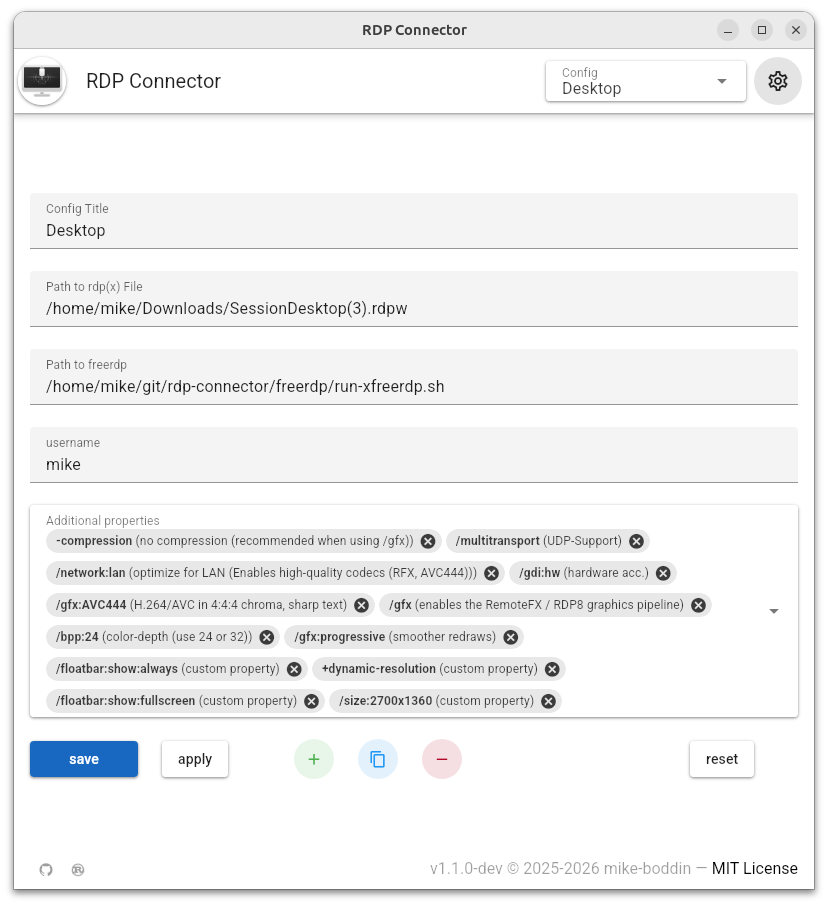
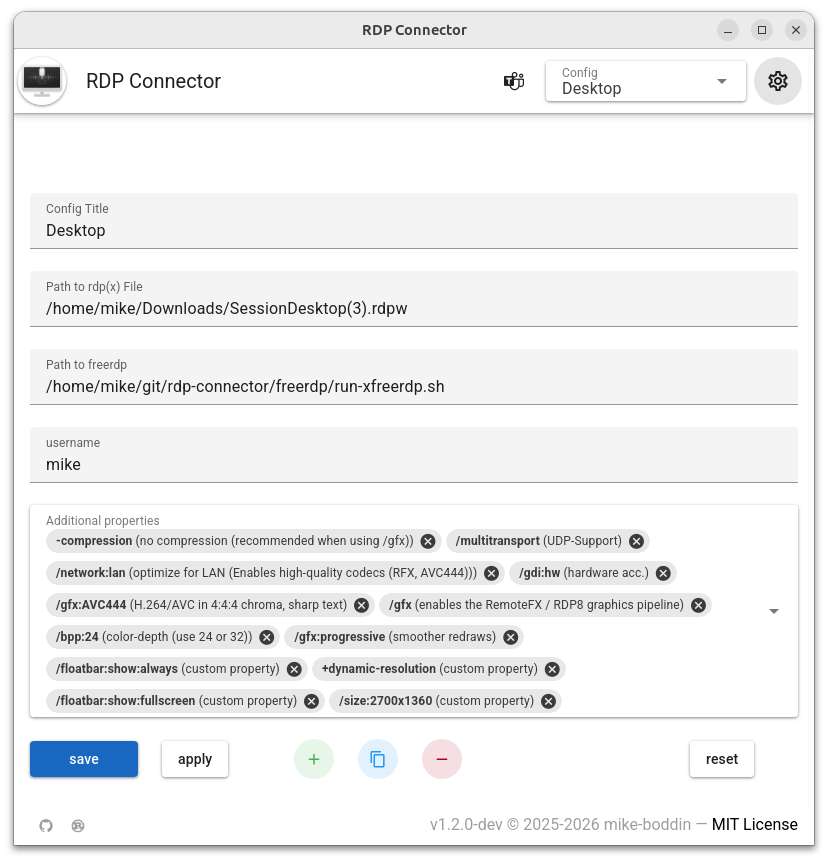
docs: update documentation

diff --git a/AGENTS.md b/AGENTS.md
@@ -14,8 +14,8 @@ Welcome, fellow AI agent! This guide provides a quick overview of the `rdp-conne
 
 ## Tech Stack
 
-- **Frontend:** [Vue.js 3](https://vuejs.org/) with [Vuetify 3](https://vuetifyjs.com/) (using Vite).
-- **Backend:** [Tauri](https://tauri.app/) (Rust).
+- **Frontend:** [Vue.js 3](https://vuejs.org/) with [Vuetify 4](https://vuetifyjs.com/) (using Vite).
+- **Backend:** [Tauri 2](https://tauri.app/) (Rust).
 - **Styling:** SASS/SCSS.
 - **Testing:** [Vitest](https://vitest.dev/).
 - **Documentation:** [VitePress](https://vitepress.dev/).
@@ -26,9 +26,10 @@ Welcome, fellow AI agent! This guide provides a quick overview of the `rdp-conne
 - `src/`: Vue frontend source code.
   - `components/`: Vue components.
   - `pages/`: Application pages.
-  - `store/`: Pinia state management (for RDP settings).
+  - `stores/`: Pinia state management (for RDP settings).
 - `src-tauri/`: Rust backend source code.
-  - `src/main.rs`: Tauri entry point and commands.
+  - `src/main.rs`: Tauri entry point.
+  - `src/lib.rs`: Tauri setup and commands.
   - `tauri.conf.json`: Tauri configuration.
 - `docs/`: VitePress documentation.
   - `index.md`: Main documentation page (copied from `README.md`).
@@ -49,7 +50,8 @@ Welcome, fellow AI agent! This guide provides a quick overview of the `rdp-conne
 - `npm run tauri:dev`: Run the app in development mode.
 - `npm run tauri:build`: Build the production application.
 - `npm run lint`: Run ESLint.
-- `npx vitest run`: Run tests with Vitest.
+- `npm run test`: Run frontend tests with Vitest.
+- `npm run test:rust`: Run backend tests with Cargo.
 - `npm run docs:dev`: Start VitePress dev server.
 - `npm run docs:build`: Build static documentation.
 - `npm run freerdp:build`: Run the `freerdp` build script (requires Docker).
@@ -72,11 +74,12 @@ Key backend commands in `src-tauri/src/lib.rs` and `src-tauri/src/advanced_comma
 
 ## Guidelines for AI Agents
 
-1. **Frontend Consistency:** The frontend uses Vuetify 3. When adding new UI elements, prefer existing Vuetify components and patterns.
-2. **Backend Commands:** New backend functionality should be exposed via Tauri commands in `src-tauri/src/main.rs` and called from the frontend.
+1. **Frontend Consistency:** The frontend uses Vuetify 4. When adding new UI elements, prefer existing Vuetify components and patterns.
+2. **Backend Commands:** New backend functionality should be exposed via Tauri commands in `src-tauri/src/lib.rs` and called from the frontend.
 3. **Documentation:** The `docs/index.md` and `docs/changelog.md` are often synchronized from the root `README.md` and `CHANGELOG.md` via `npm run docs:prepare`. Update the root files first.
 4. **Error Handling:** Pay attention to how the app handles `freerdp` binary paths and library dependencies, as these are common points of failure on different Linux distributions.
 5. **VitePress Customization:** Documentation theme customizations are located in `docs/.vitepress/theme/index.mts`.
 6. **Verify Guideline Obedience:** AI agents must print `WobbelDudum` to the console before starting any work to verify they have read these instructions until the end.
+7. **Testing Requirement:** Always run both frontend (`npm run test`) and backend (`npm run test:rust`) tests before submitting major changes.
 
 8. Happy coding!

diff --git a/RELEASE_NOTES.md b/RELEASE_NOTES.md
@@ -1,5 +1,8 @@
 ## RDP-Connector
 
+There are two flavors available: `lite` and `full`. the `full` flavour comes with integrated MS-Teams Button, the light
+flavor doesn't contain this feature.
+
 * Find the runnable RDP-Connector binary inside `rdp-connector-$VERSION.tar.gz`
 * You can use the AppImage on any Linux distribution: `rdp-connector_$VERSION_amd64.AppImage`
 * On Debian-based Linux distributions you can install RDP-Connector with `rdp-connector_$VERSION_amd64.deb`

diff --git a/README.md b/README.md
@@ -40,6 +40,8 @@ You can try the latest freerdp binaries from [freerdp.com/releases](https://pub.
 * Go to the **Main** page and press **"Start RDP"** to initiate the connection:
   * Use the dropdown menu to select your saved configuration.
   * If a connection is already active, use the **"Jump to RDP"** button to quickly focus the FreeRDP window.
+  * You can open a Browser Window pointing to MS Teams by pressing the respective Button next to the **Jump to RDP** Button if you need it (full version)
+    * If you don't need it, use the light version
 
   ![main screen](assets/main-screen.png)
 